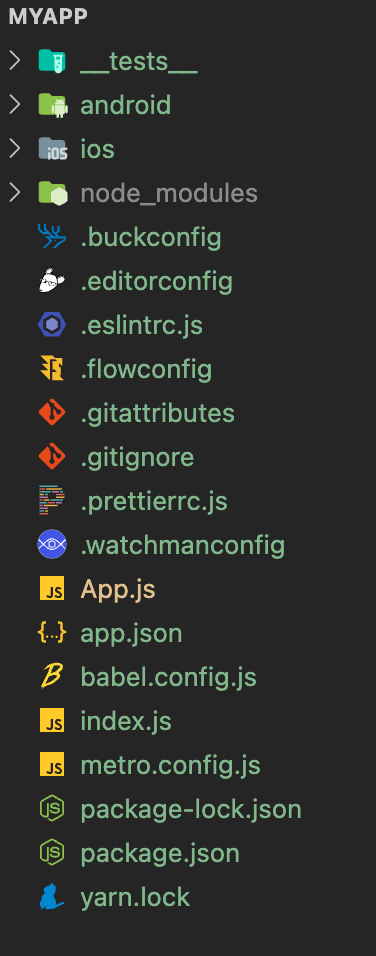
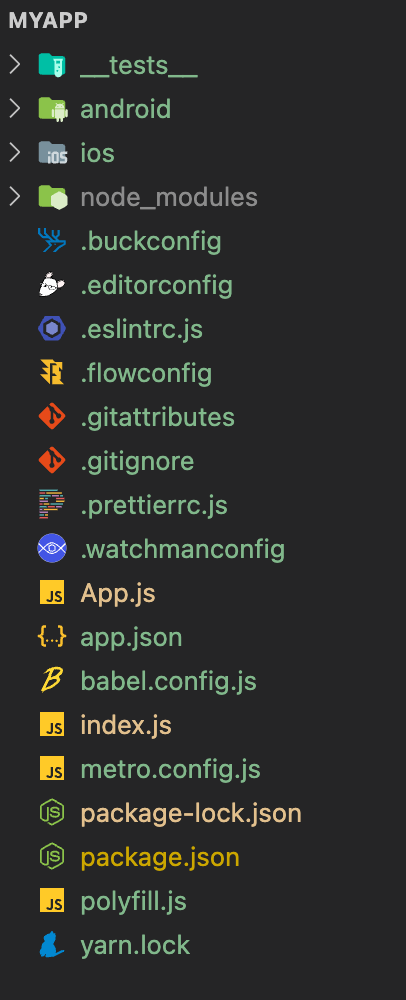
docs(react native android hid): added images

Changed region(s): [[0.0, 0.0, 0.7899, 0.9707], [0.0293, 0.1517, 0.0585, 0.2123], [0.0293, 0.091, 0.0585, 0.1213]]

diff --git a/_docs/transport/react-native-android-hid.md b/_docs/transport/react-native-android-hid.md
@@ -110,13 +110,36 @@ cd myApp
 During the initialization it is installing required "CocoaPods" dependencies and it may takes times.
 
 Now that the folder is initialized, open it in an editor.
-Create a file named "App.js" in the root folder.
+Create a file named "App.js" and "polyfill.js" in the root folder.
 Your folder must look like this.
 
 <!-- ------------- Image ------------- -->
 <div style="text-align:center">
 <img width="210" src="../images/folder-rn-android.png" ></div>
 <!-- --------------------------------- -->
+
+
+In polyfill.js copy paste the following code :
+
+#### polyfill.js
+```javascript
+global.Buffer = require("buffer").Buffer;
+```
+Then import the polyfill in "index.js" like below:
+
+#### index.js
+```javascript
+/**
+ * @format
+ */
+
+import "./polyfill";    //import this
+import {AppRegistry} from 'react-native';
+import App from './src/App';
+import {name as appName} from './app.json';
+
+AppRegistry.registerComponent(appName, () => App);
+```
 
 
 In App.js copy paste the following code :
@@ -209,6 +232,10 @@ const styles = StyleSheet.create({
 Now that the code is paste, the dependencies of the code have to be installed.
 To do that install the following package by running the command :
 
+- Install <a href="https://www.npmjs.com/package/buffer">Buffer</a>:
+```console
+ npm install --save buffer
+```
 - Install the Ledger package <a href="https://www.npmjs.com/package/@ledgerhq/logs">@ledgerhq/logs</a> which provide you the log of all the error from your connexion with your Ledger device that may appear when developing:
 ```console
  npm install @ledgerhq/logs
@@ -242,6 +269,7 @@ This is how your “package.json” has to look like.
     "@ledgerhq/hw-app-eth": "^6.15.2",
     "@ledgerhq/logs": "^6.10.0",
     "@ledgerhq/react-native-hid": "^6.11.2",
+    "buffer": "^6.0.3",
     "react": "17.0.2",
     "react-native": "0.66.3"
   },
@@ -268,7 +296,7 @@ A little modification have to be made in the “build.gradle” in the "android"
 <img width="840" src="../images/change-minSDK.png" ></div>
 <!-- --------------------------------- -->
 
-You can now test it.
+You can now test the application you have built.
 
 ## Web App Test
 
@@ -328,7 +356,7 @@ When launching the application it will be display like the below image.
 
 <!-- ------------- Image ------------- -->
 <div style="text-align:center">
-<img width="210" src="../images/android-device-hid.png" ></div>
+<img width="210" src="../images/android-device-hid.jpg" ></div>
 <!-- --------------------------------- -->
 
 Connect your Ledger Nano to your android device, unlock it and run the ethereum application.
@@ -346,7 +374,7 @@ Now that the two devices are connected to each other the address must have been 
 
 <!-- ------------- Image ------------- -->
 <div style="text-align:center">
-<img width="210" src="../images/android-device-hid.png" ></div>
+<img width="210" src="../images/android-device-hid-address.jpg" ></div>
 <!-- --------------------------------- -->
 
 Congratulations you have successfully built your first application connected with Ledger !!!
